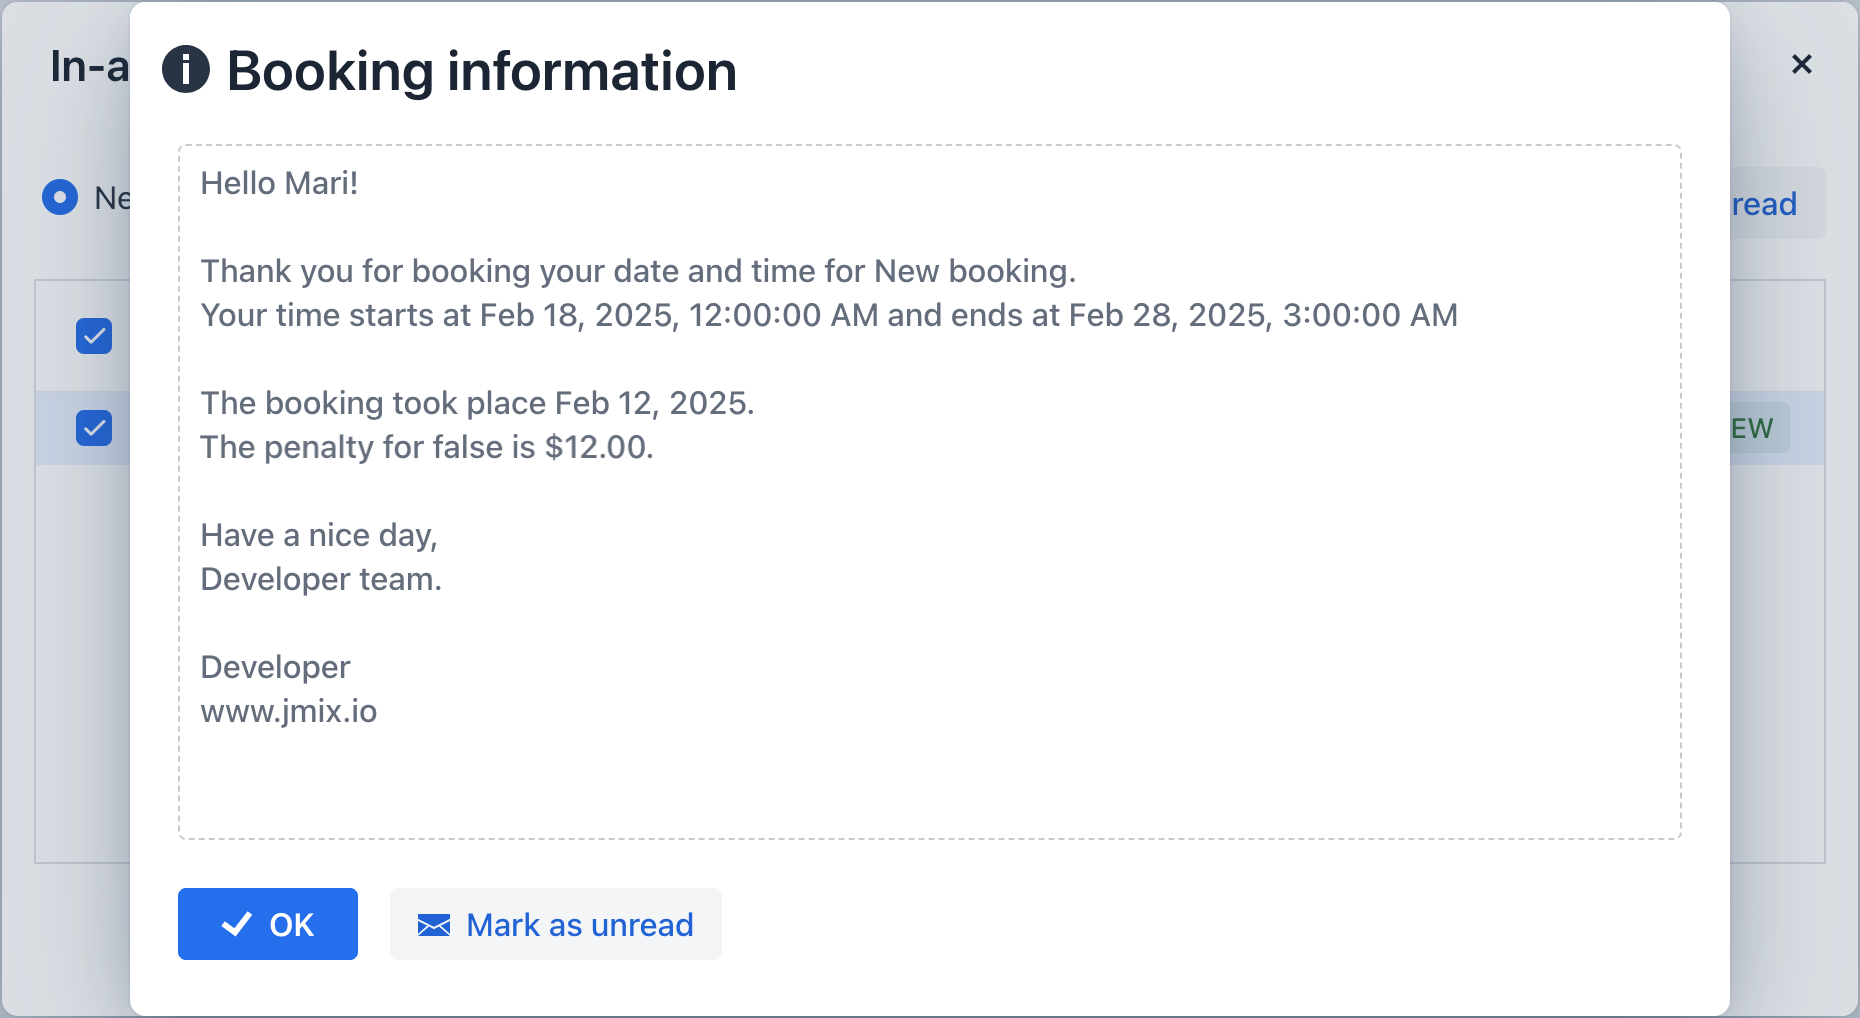
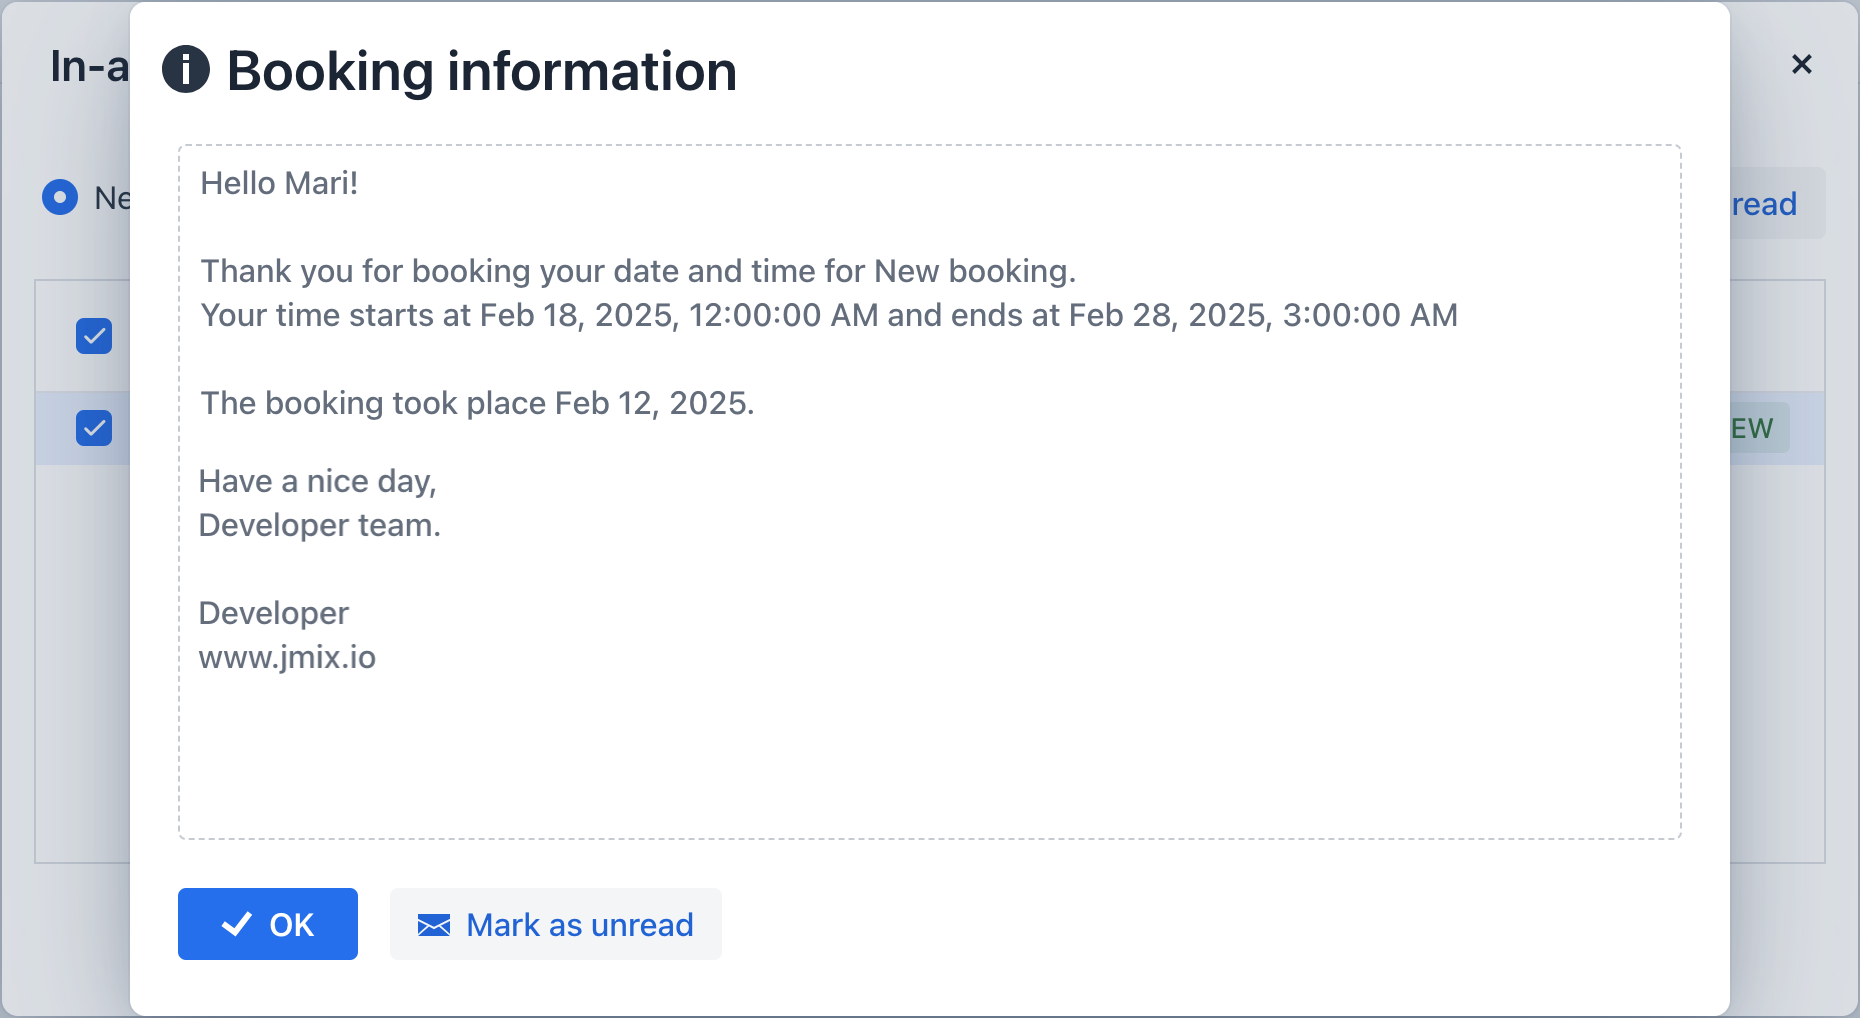
Document the Message Templates add-on #942

Changed region(s): [[0.0935, 0.4263, 0.343, 0.7308]]

diff --git a/content/modules/message-templates/examples/messagetemplates-ex1/src/main/java/com/company/sample/view/booking/BookingListView.java b/content/modules/message-templates/examples/messagetemplates-ex1/src/main/java/com/company/sample/view/booking/BookingListView.java
@@ -57,8 +57,7 @@ public class BookingListView extends StandardListView<Booking> {
                 .withParams(
                         Map.of(
                                 "booking", booking,
-                                "today", new Date(),
-                                "penalty", 5000
+                                "today", new Date()
                         )) // <8>
                 .generate();
 
